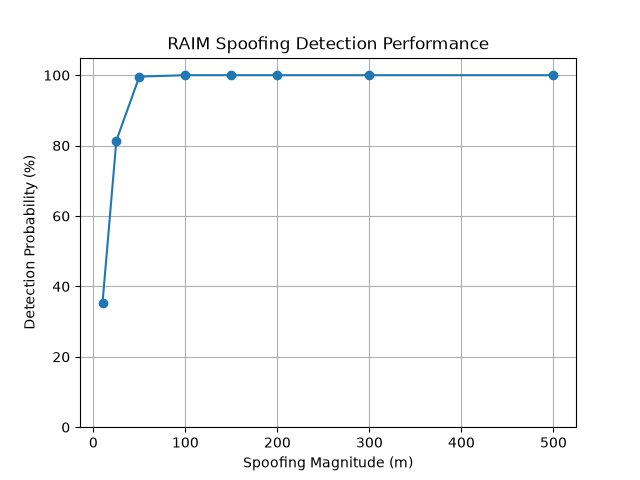
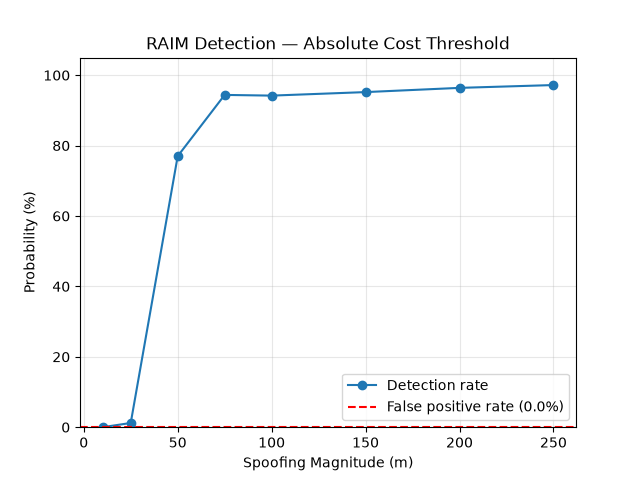
update RAIM algorithm to keep noise at small distances from causing false positives

diff --git a/process_field.py b/process_field.py
@@ -4,12 +4,12 @@ import scipy.optimize
 import matplotlib.pyplot as plt
 from itertools import combinations
 
-# path loss params from the calibration calculations, (see analyze.py)
+# path loss params from the calibration campaign (see analyze.py)
 A = -43.16
 n = 2.55
 
 # anchor layout from the field, converted to meters.
-# From_IDS: 5903 north, b12b east, 820e south, 85e4 west
+# from_ids: 5903 north, b12b east, 820e south, 85e4 west
 # assumes anchors are on exact cardinal bearings from center, which is roughly true
 anchor_ids = ['!f96f5903', '!05c8b12b', '!cae6820e', '!d1da85e4']
 anchor_names = ['North', 'East', 'South', 'West']
@@ -20,16 +20,20 @@ anchors = numpy.array([
     [-27.4, 0]
 ])
 
-# rover positions. verified via rangefinder but there is some degree of error in those measurements given that i was shooting a small bucket with a radio on top.
+# rover positions. position 1 was rangefinder-verified, 2 and 3 are paced estimates
 rover_windows = {
     'Position 1 (center)': ('19:54:00', '19:57:00', [0, 0]),
     'Position 2 (north, est.)': ('19:58:00', '20:00:30', [0, 15]),
     'Position 3 (SE, est.)': ('20:02:00', '20:05:00', [12, -12]),
 }
 
-# threshold for RAIM detection — if the best subset is this many times better than the second best, call it spoofing. 
-# without this the algorithm always flags somebody even when everyone's honest
-RAIM_THRESHOLD = 3.0
+# noise level from the field calibration (6dB RSSI std -> ~6m range std near this
+# distance). used to set absolute cost thresholds below, not a ratio between subsets.
+# a ratio-based threshold looked fine on paper but Monte Carlo testing showed 20-70%
+# false positives on honest data, so this version uses the actual noise scale instead.
+SIGMA_R = 6.0
+CLEAN_CEILING = 4 * SIGMA_R**2   # a subset this close to zero residual is "clean"
+DIRTY_FLOOR = 15 * SIGMA_R**2    # every other subset has to be clearly worse than this
 
 def estimate_range(rssi):
     # inverse of the path loss model
@@ -44,7 +48,7 @@ def distance_cost(candidate, anchors, ranges):
 
 def get_ranges(start, end):
     rssi_by_anchor = {aid: [] for aid in anchor_ids}
-    with open('trilatlog.csv', 'r') as f:
+    with open('data/trilatlog.csv', 'r') as f:
         reader = csv.reader(f)
         next(reader)
         for row in reader:
@@ -63,28 +67,21 @@ def trilaterate(anchors, ranges):
     return result.x, result.fun
 
 def raim(anchors, ranges):
-    # trilaterate with every 3-of-4 subset. the subset that excludes the liar
-    # has three honest anchors that agree, so it has the lowest cost.
-    # only flag if that subset is clearly better than the rest.
+    # try every 3-of-4 subset. the subset excluding the liar has three honest
+    # anchors that agree, so its cost stays near the noise floor. every subset
+    # that includes the liar gets dragged off and its cost blows up.
     subsets = list(combinations(range(4), 3))
-    costs = []
-    fixes = []
-    excluded = []
+    costs, fixes, excluded = [], [], []
     for subset in subsets:
         fix, cost = trilaterate(anchors[list(subset)], ranges[list(subset)])
-        exc = [i for i in range(4) if i not in subset][0]
         costs.append(cost)
         fixes.append(fix)
-        excluded.append(exc)
-    
-    sorted_costs = sorted(costs)
-    ratio = sorted_costs[1] / sorted_costs[0]
+        excluded.append([i for i in range(4) if i not in subset][0])
     best = numpy.argmin(costs)
-    
-    if ratio > RAIM_THRESHOLD:
-        return fixes[best], excluded[best], costs, ratio
-    else:
-        return fixes[best], None, costs, ratio
+    others = [c for i, c in enumerate(costs) if i != best]
+    if costs[best] < CLEAN_CEILING and min(others) > DIRTY_FLOOR:
+        return excluded[best], fixes[best], costs
+    return None, fixes[best], costs
 
 
 # ---- trilateration on real data ----
@@ -119,16 +116,18 @@ print(f"\nmean error: {numpy.mean(errors):.1f}m")
 
 
 # ---- RAIM on real RSSI ----
-# the spoofed positions here are applied in post-processing. the RSSI is real but the fake anchor position is typed in, not captured from a position packet.
-# RSSI doesn't change when a node lies about its GPS so this is mathematically the same as an over-the-air spoof, but it's not the full end-to-end demo.
-print("\n--- RAIM (real RSSI from Position 1, spoof applied in post) ----")
+# spoofed position is applied here in post-processing, not captured from a live
+# position packet over the mesh (the logger only recorded RSSI). RSSI doesn't
+# change when a node lies about its GPS, so the math is the same as an over-the-air
+# spoof, but this isn't the full end-to-end demo yet.
+print("\n--- RAIM (real RSSI from Position 1, spoof applied in post) ---")
 ranges = get_ranges('19:54:00', '19:57:00')
 
 print("\nbaseline, everyone honest:")
-fix, suspect, costs, ratio = raim(anchors, ranges)
-print(f"  costs: {[f'{c:.1f}' for c in costs]}  ratio={ratio:.2f}")
+suspect, fix, costs = raim(anchors, ranges)
+print(f"  costs: {[f'{c:.1f}' for c in costs]}")
 if suspect is None:
-    print(f"  no spoofing detected (ratio below {RAIM_THRESHOLD})")
+    print("  no spoofing detected (correct)")
 else:
     print(f"  FALSE POSITIVE: flagged {anchor_names[suspect]}")
 
@@ -136,11 +135,11 @@ for spoof_dist in [25, 50, 100, 200]:
     print(f"\nnorth anchor lies by {spoof_dist}m:")
     spoofed = anchors.copy()
     spoofed[0] = anchors[0] + [spoof_dist, 0]
-    fix, suspect, costs, ratio = raim(spoofed, ranges)
-    print(f"  costs: {[f'{c:.1f}' for c in costs]}  ratio={ratio:.2f}")
+    suspect, fix, costs = raim(spoofed, ranges)
+    print(f"  costs: {[f'{c:.1f}' for c in costs]}")
     if suspect == 0:
-        print(f"  DETECTED — flagged North")
+        print("  DETECTED — flagged North")
     elif suspect is None:
-        print(f"  MISSED — ratio below threshold")
+        print("  MISSED — below detection threshold")
     else:
         print(f"  WRONG — flagged {anchor_names[suspect]}")

diff --git a/trilaterate.py b/trilaterate.py
@@ -3,66 +3,71 @@ import scipy.optimize
 from itertools import combinations
 import matplotlib.pyplot as plt
 
-anchors = numpy.array([
-    [0, 0],
-    [100, 0],
-    [50, 87],
-    [90, 80]
-])
-
+anchors = numpy.array([[0, 0], [100, 0], [50, 87], [90, 80]])
 rover_pos = numpy.array([40, 30])
 ranges = numpy.sqrt(numpy.sum((anchors - rover_pos) ** 2, axis=1))
 
-# Spoof anchor 2
-spoofed_anchors = anchors.copy()
-spoofed_anchors[2] = [150, 87]
+SIGMA_R = 6.0  # meters, from measured 6dB RSSI noise
+# honest 3-anchor cost ~ chi2(1 dof)*sigma_r^2, so use a multiple of sigma_r^2
+# as the "this subset is clean" ceiling, and require the other subsets be well above it
+CLEAN_CEILING = 4 * SIGMA_R**2   # ~144
+DIRTY_FLOOR = 15 * SIGMA_R**2    # ~540
 
 def distance_cost(candidate, anchors, ranges):
     total = 0
     for i in range(len(anchors)):
-        dist = numpy.sqrt((candidate[0] - anchors[i][0])**2 + (candidate[1] - anchors[i][1])**2)
+        dist = numpy.sqrt((candidate[0]-anchors[i][0])**2 + (candidate[1]-anchors[i][1])**2)
         total += (dist - ranges[i]) ** 2
     return total
 
-subsets = list(combinations(range(4), 3))
+def trilaterate(anchors, ranges):
+    result = scipy.optimize.minimize(distance_cost, [0, 0], args=(anchors, ranges))
+    return result.x, result.fun
 
+def raim(anchors, ranges):
+    subsets = list(combinations(range(4), 3))
+    costs, fixes, excluded = [], [], []
+    for subset in subsets:
+        fix, cost = trilaterate(anchors[list(subset)], ranges[list(subset)])
+        costs.append(cost)
+        fixes.append(fix)
+        excluded.append([i for i in range(4) if i not in subset][0])
+    best = numpy.argmin(costs)
+    others = [c for i, c in enumerate(costs) if i != best]
+    if costs[best] < CLEAN_CEILING and min(others) > DIRTY_FLOOR:
+        return excluded[best], fixes[best], costs
+    return None, fixes[best], costs
 
-
-spoof_distances = [10, 25, 50, 100, 150, 200, 300, 500]
+# false positive rate on honest data
+numpy.random.seed(0)
 num_trials = 500
-detection_rates = []
+fp = sum(1 for _ in range(num_trials)
+         if raim(anchors, ranges + numpy.random.normal(0, SIGMA_R, 4))[0] is not None)
+print(f"False positive rate: {fp/num_trials*100:.1f}%")
 
-for spoof_dist in spoof_distances:
-    detections = 0
-    for trial in range(num_trials):
-        noisy_ranges = ranges + numpy.random.normal(0, 6, len(ranges))
-        
+# detection sweep
+spoof_distances = [10, 25, 50, 75, 100, 150, 200, 250]
+detection_rates = []
+for d in spoof_distances:
+    hits = 0
+    for _ in range(num_trials):
+        noisy = ranges + numpy.random.normal(0, SIGMA_R, 4)
         spoofed = anchors.copy()
-        spoofed[2] = anchors[2] + [spoof_dist * 0.7, spoof_dist * 0.7]
-        
-        costs = []
-        excluded_list = []
-        for subset in subsets:
-            sub_anchors = spoofed[list(subset)]
-            sub_ranges = noisy_ranges[list(subset)]
-            result = scipy.optimize.minimize(distance_cost, [0, 0], args=(sub_anchors, sub_ranges))
-            excluded = [i for i in range(4) if i not in subset][0]
-            costs.append(result.fun)
-            excluded_list.append(excluded)
-        
-        detected_spoofer = excluded_list[numpy.argmin(costs)]
-        if detected_spoofer == 2:
-            detections += 1
-    
-    rate = detections / num_trials
+        spoofed[2] = anchors[2] + [d*0.7, d*0.7]
+        suspect, fix, costs = raim(spoofed, noisy)
+        if suspect == 2:
+            hits += 1
+    rate = hits / num_trials
     detection_rates.append(rate)
-    print(f"Spoof distance: {spoof_dist}m, detection rate: {rate*100:.0f}%")
+    print(f"Spoof {d}m: {rate*100:.0f}% detected")
 
 plt.figure()
-plt.plot(spoof_distances, [r * 100 for r in detection_rates], 'o-')
+plt.plot(spoof_distances, [r*100 for r in detection_rates], 'o-', label='Detection rate')
+plt.axhline(y=fp/num_trials*100, color='red', linestyle='--', label=f'False positive rate ({fp/num_trials*100:.1f}%)')
 plt.xlabel('Spoofing Magnitude (m)')
-plt.ylabel('Detection Probability (%)')
-plt.title('RAIM Spoofing Detection Performance')
+plt.ylabel('Probability (%)')
+plt.title('RAIM Detection — Absolute Cost Threshold')
 plt.ylim(0, 105)
-plt.grid(True)
+plt.grid(True, alpha=0.3)
+plt.legend()
 plt.savefig('raim_detection.png')
